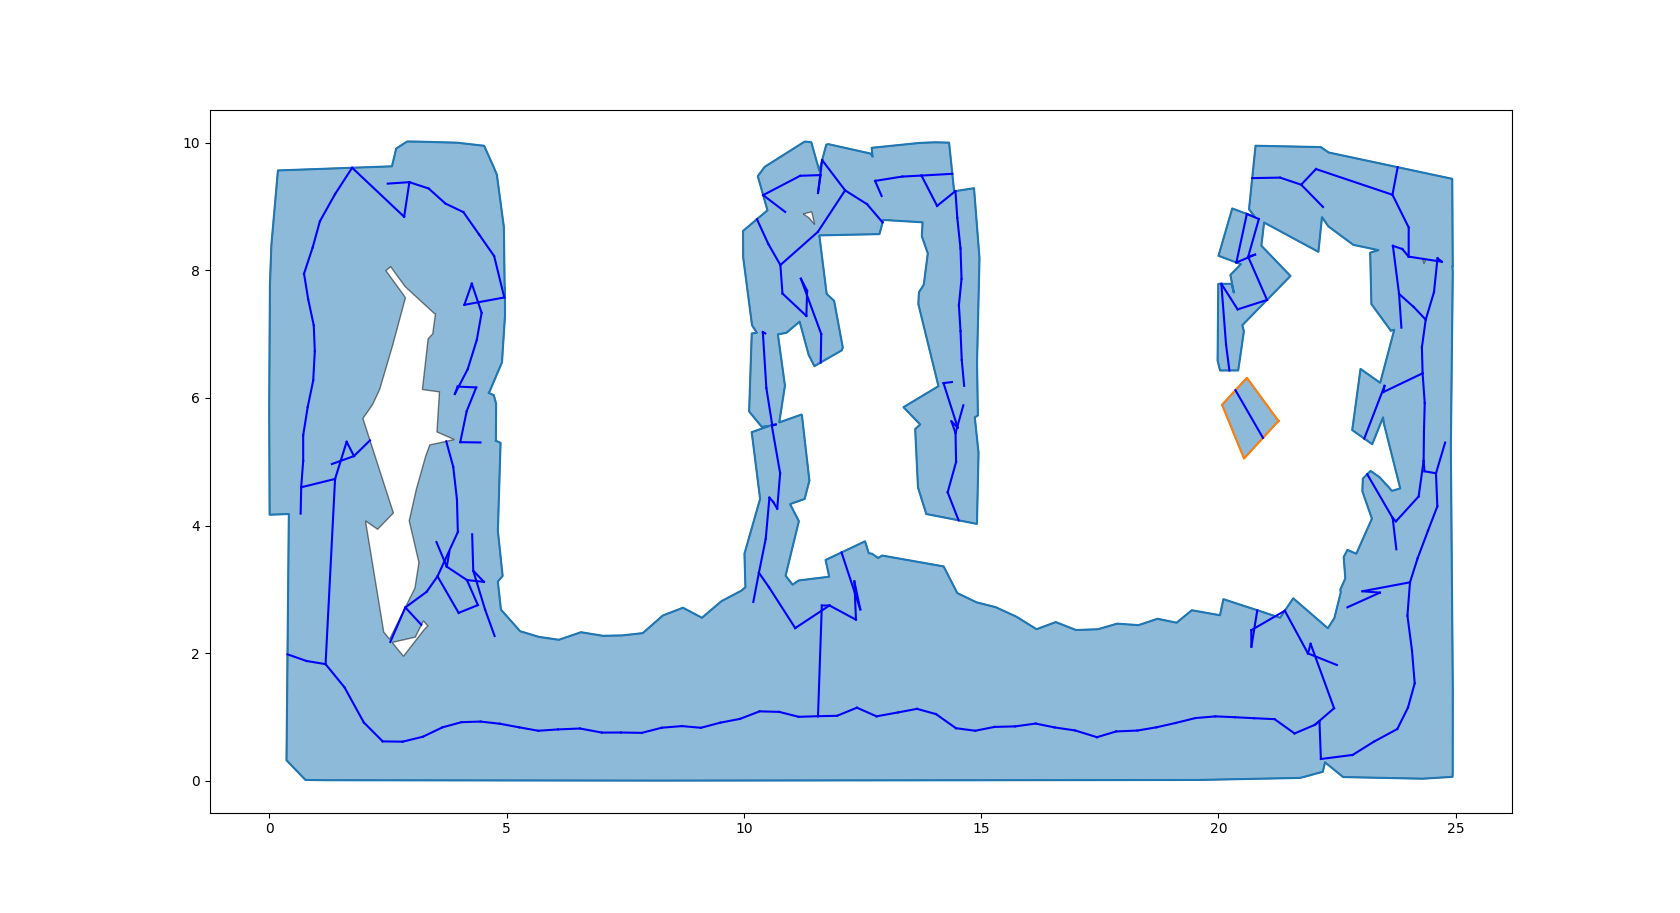
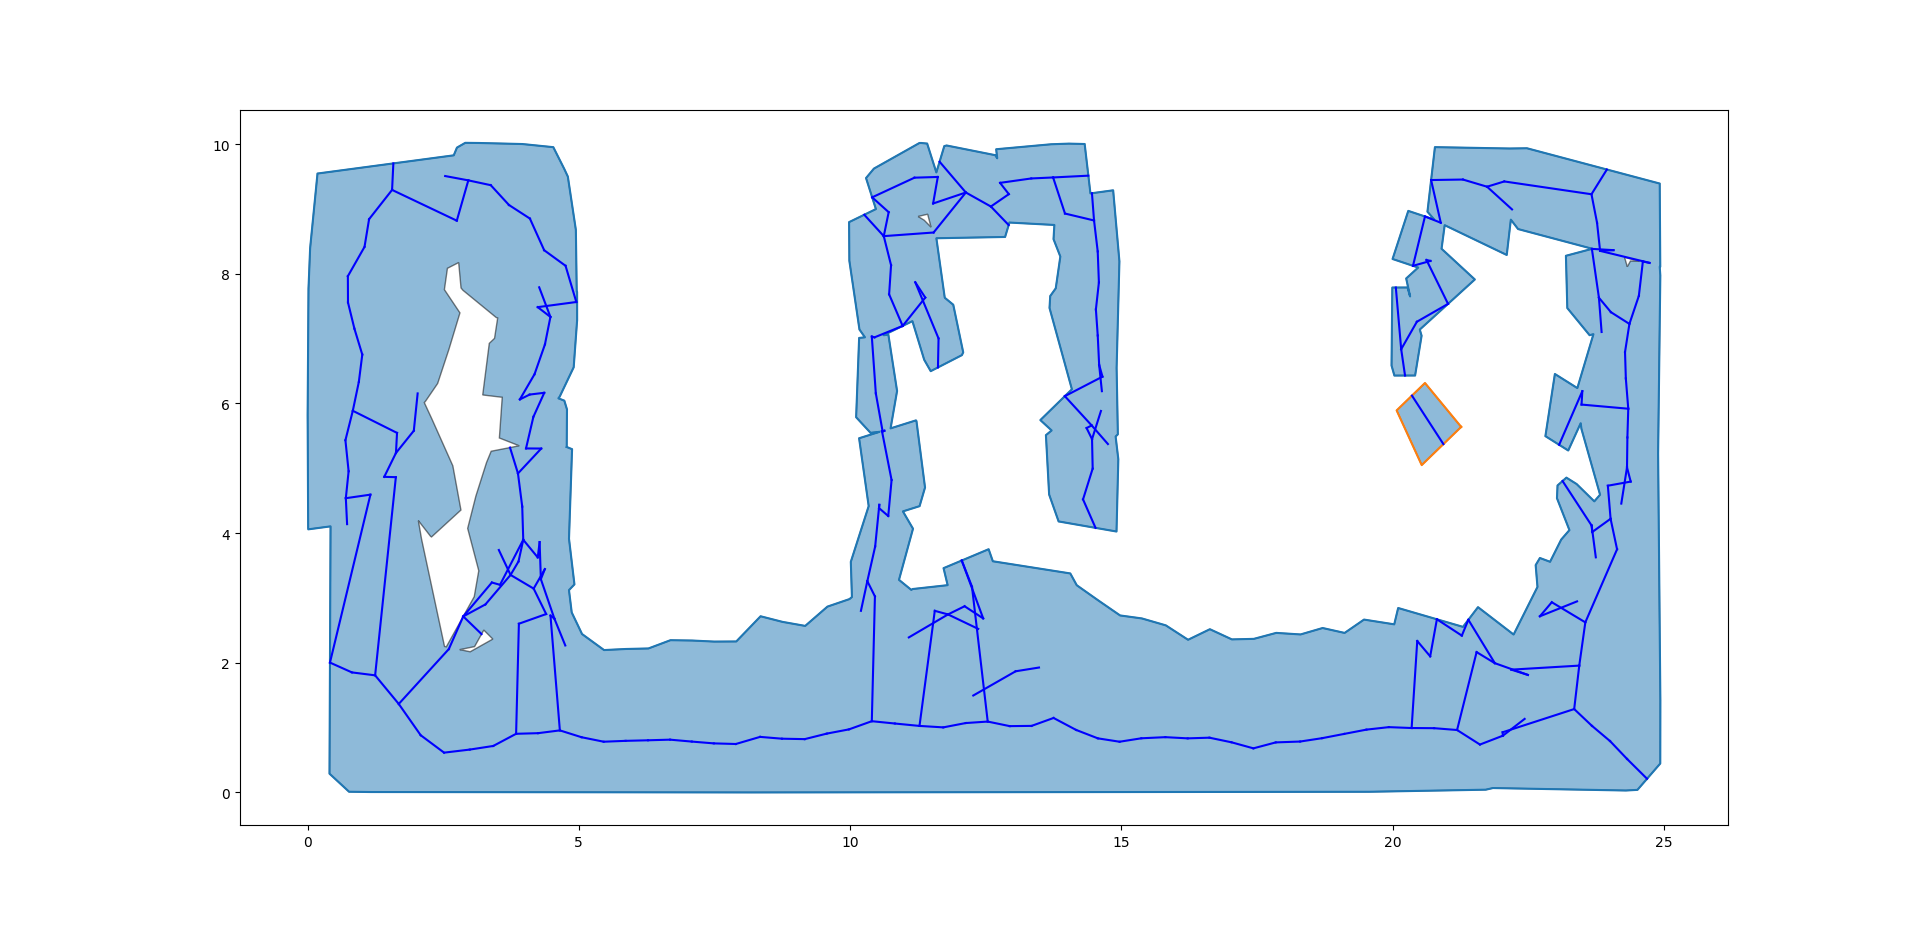
fix to map creation. paste geojson file content to http://geojson.io/ to see the map!

diff --git a/ClusterProcessor.py b/ClusterProcessor.py
@@ -4,7 +4,7 @@ Created on Thu Apr 27 00:38:50 2017
 
 @author: Eyal
 """
-from clyent import color
+
 from descartes import PolygonPatch
 from matplotlib import pyplot as plt
 import numpy as np
@@ -34,7 +34,8 @@ class ClusterProcessor:
         self.MinLns = MinLns
         self.rotationalProjector = RotationalProjector()
 
-    def plotMap(self, axs, polygonsAndReprTrajs):
+
+    def plot_clusters_and_reprs(self, axs, polygonsAndReprTrajs):
         """ input is a zip of <polygon, traj> """
 
         polygonsAndReprTrajs = list(polygonsAndReprTrajs)
@@ -92,7 +93,12 @@ class ClusterProcessor:
         return zip(polygons, trajs)
 
     def make_map_from_zip_polygons_trajs(self, polys_repr_trajs):
-        """ input is a zip of <polygon, traj> """
+        """
+        makes a zip of polys and reprs into a tuple of
+        (map polygon, underlying routing graph)
+        :param polys_repr_trajs: a zip of polys and reprs
+        :return: (map polygon, underlying routing graph)
+        """
 
         map_poly = MultiPolygon()
         polys_repr_trajs = list(polys_repr_trajs)
@@ -101,49 +107,56 @@ class ClusterProcessor:
         polys, trajs = zip(*polys_repr_trajs)  # traj is a (xlist, ylist)
 
         grp = Graph()
+        bridges = []
 
-        def dist(x1, y1, x2, y2):
-            return math.sqrt((x2 - x1) ** 2 + (y2 - y1) ** 2)
-
-        # in this loop we pop clusters and attach them to map
-        while len(polys) > 0:
-            # pop
-            poly, traj = polys[0], trajs[0]  # traj is a (xlist, ylist)
-            polys, trajs = polys[1:], trajs[1:]
-
-            xytups = list(zip(*traj))
-            is_intersect = poly.intersects(map_poly)
-            is_contained = map_poly.contains(poly)
-            if is_contained:
-                print("contained special case, moving on for now...")
+        # building bridges inside this loop
+        for poly_traj_tup_a, poly_traj_tup_b in itertools.combinations(polys_repr_trajs, 2):
+            poly_a, poly_b = poly_traj_tup_a[0], poly_traj_tup_b[0]
+            traj_a, traj_b = poly_traj_tup_a[1], poly_traj_tup_b[1]
+            is_intersect = poly_a.intersects(poly_b)
+            is_a_contained = poly_b.contains(poly_a)
+            is_b_contained = poly_a.contains(poly_b)
+            if is_a_contained or is_b_contained:
+                print("special containment case - deal with later")
                 continue
-
             if is_intersect:
-                intersection_of_clusters = poly.intersection(map_poly)
+                intersection_of_clusters = poly_a.intersection(poly_b)
 
-                if type(intersection_of_clusters) is Polygon:  # TODO: should be case partly intersects
-                    # find closest two points
-                    self.add_polygon_to_map(dist, grp, intersection_of_clusters, xytups)
+                if type(intersection_of_clusters) is Polygon:  # Partial intersection
+                    bridge = ClusterProcessor.bridge(traj_a, traj_b, intersection_of_clusters)
+                    bridges.append(bridge)
 
                 elif type(intersection_of_clusters) is MultiPolygon:
-                    print("MultiPolygon intersection!")
                     for polyg in intersection_of_clusters:
-                        self.add_polygon_to_map(dist, grp, polyg, xytups)
+                        bridge = ClusterProcessor.bridge(traj_a, traj_b, polyg)
+                        bridges.append(bridge)
+
                 else:
                     print("the type of the intersection was {}".format(type(intersection_of_clusters)))
 
-            else:  # doesn't intersect
-                # add all nodes of this cluster to the graph
-                grp.add_nodes_from(xytups)
+        # building map:
+        for poly_traj_tup in polys_repr_trajs:
+            poly = poly_traj_tup[0]
+            traj = poly_traj_tup[1]
 
-                # add all edges of cluster to the map
-                for i, tup in enumerate(xytups):
-                    if i == len(xytups) - 1:
-                        break
-                    grp.add_edge(tup, xytups[i + 1])
-
+            # adding poly to map
             map_poly = map_poly.union(poly)
 
+            # adding trajectory to map graph
+            xytups = list(zip(*traj))
+            grp.add_nodes_from(xytups)
+
+            # add all edges of cluster to the map
+            for i, tup in enumerate(xytups):
+                if i == len(xytups) - 1:
+                    break
+                grp.add_edge(tup, xytups[i + 1])
+
+        for a, m, b in bridges:
+            grp.add_node(m)
+            grp.add_edges_from([(a,m), (m,b)])
+
+        # optional plotting:
         fig, axs = plt.subplots()
         for polygon in map_poly:
             x, y = polygon.exterior.xy
@@ -155,29 +168,34 @@ class ClusterProcessor:
             axs.plot(xs, ys, color="b")
         plt.show()
 
-    def add_polygon_to_map(self, dist, grp, intersection_of_clusters, xytups):
-        x, y = intersection_of_clusters.exterior.xy
-        mean_point = sum(x) / len(x), sum(y) / len(y)
-        # find closest point in poly's traj
-        pts_and_distances = [(xytup, dist(*xytup, *mean_point)) for xytup in xytups]
-        min_pt_and_dist = min(pts_and_distances, key=lambda pt: pt[1])
-        # find closest point already in graph
-        pts_and_distances2 = [(xytup, dist(*xytup, *mean_point)) for xytup in grp.nodes()]
-        min_pt_and_dist2 = min(pts_and_distances2, key=lambda pt: pt[1])
-        # add intersection point to map
-        grp.add_node(mean_point)
-        # add all nodes of this cluster to the graph
-        grp.add_nodes_from(xytups)
-        # add all edges of cluster to the map
-        for i, tup in enumerate(xytups):
-            if i == len(xytups) - 1:
-                break
-            grp.add_edge(tup, xytups[i + 1])
+        return map_poly, grp
 
-        # connect middle point to new cluster
-        grp.add_edge(min_pt_and_dist[0], mean_point)
-        # connect existing graph to middle point
-        grp.add_edge(min_pt_and_dist2[0], mean_point)
+    def dist(x1, y1, x2, y2):
+        return math.sqrt((x2 - x1) ** 2 + (y2 - y1) ** 2)
+
+    def bridge(traj_a, traj_b, polyg):
+        """
+        gets two trajectories from two clusters,
+        and returns 3 points of a short bridge between them.
+        :param traj_a: trajectory of cluster a
+        :param traj_b: trajectory of cluster b
+        :param polyg: the intersection of poly_a and poly_b
+        :return: (pta, meanp, ptb)
+        """
+        ptsa = list(zip(*traj_a))
+        ptsb = list(zip(*traj_b))
+
+        x, y = polyg.exterior.xy
+        mean_point = sum(x) / len(x), sum(y) / len(y)
+
+        # find closest point in traj_a
+        pts_and_distances = [(xytup, ClusterProcessor.dist(*xytup, *mean_point)) for xytup in ptsa]
+        min_pt_and_dist_a = min(pts_and_distances, key=lambda pt: pt[1])
+        # find closest point in traj_b
+        pts_and_distances = [(xytup, ClusterProcessor.dist(*xytup, *mean_point)) for xytup in ptsb]
+        min_pt_and_dist_b = min(pts_and_distances, key=lambda pt: pt[1])
+
+        return (min_pt_and_dist_a[0], mean_point, min_pt_and_dist_b[0])
 
     def loadLocalCluster_lsegList(self, localClusterLlineList):
         self.localLLinesList = localClusterLlineList

diff --git a/mapper.py b/mapper.py
@@ -12,7 +12,10 @@ from TraclusClusterer import SegmentsClusterer
 from ClusterProcessor import ClusterProcessor
 import pickle
 from matplotlib import pyplot as plt
-
+import json
+import geojson
+from shapely.geometry import mapping
+import networkx as nx
 
 class IndoorMapper:
     
@@ -99,8 +102,6 @@ class IndoorMapper:
         clustersDict = clusterer.LineSegmentClustering()
         print("{}: Clustering process ended. Got {} clusters.".format(time.time() - start, len(clustersDict.values())))
         
-#        clusterer.plotClusters(axs, clustersDict.values())
-        
         print("{}: Starting Cluster processing...".format(time.time() - start))
         processor = ClusterProcessor(self.MinLns)
         polygonsAndReprTrajs = processor.process(clustersDict.values())
@@ -108,22 +109,70 @@ class IndoorMapper:
         print("{}: Plotting the clusters...".format(time.time() - start))
         axs.set_title("Clustering eps = {} MinLns = {}".format(self.eps, self.MinLns))
         zip_for_map = copy.deepcopy(polygonsAndReprTrajs)
-        processor.plotMap(axs, polygonsAndReprTrajs)
-        processor.make_map_from_zip_polygons_trajs(zip_for_map)
+        processor.plot_clusters_and_reprs(axs, polygonsAndReprTrajs)
+        map_poly, routing_graph = processor.make_map_from_zip_polygons_trajs(zip_for_map)
 
-       # temp operation...
-#        clusterer.plotClusters(axs, list(clustersDict.values()))
-                
+        geojson_map_string, geo_routing_graph = IndoorMapper.convert_local_to_geo(map_poly, routing_graph, clusterer.projector)
+
+        floor_plan_file_name = "geojson//floor_plan_{}_{}.geojson".format(self.csvName, time.strftime("%d-%m-%Y_%H-%M-%S", time.gmtime()))
+        with open(floor_plan_file_name, "w") as geojson_file:
+            geojson_file.write(geojson_map_string)
+
         print("{}: Plot ended.".format(time.time() - start))
         print("{}: Test ended.".format(time.time() - start))
-    
+
+    def convert_local_to_geo(map_poly, routing_graph, projector):
+        f_local_to_geo = lambda tup: projector.XYToLatLong(*tup)[::-1]
+        f_local_edge_to_geo = lambda two_tups: (f_local_to_geo(two_tups[0]), f_local_to_geo(two_tups[1]))[::-1]
+
+        local_map_mapping = mapping(map_poly)
+        geo_map_mapping = IndoorMapper.geojson_map_coords(f_local_to_geo, local_map_mapping)
+        geojson_map_string = geojson.dumps(geo_map_mapping)
+
+        geo_graph = nx.Graph()
+
+        local_nodes = list(routing_graph.nodes())
+        geo_nodes = map(f_local_to_geo, local_nodes)
+
+        local_edges = list(routing_graph.edges())
+        geo_edges = map(f_local_edge_to_geo, local_edges)
+
+        geo_graph.add_nodes_from(geo_nodes)
+        geo_graph.add_edges_from(geo_edges)
+
+        return geojson_map_string, geo_graph
+
     def testMapperOn(axs, csvName, eps, MinLns):
         mapper = IndoorMapper(csvName, eps, MinLns)
         mapper.run(axs, True)
         return
 
+    def geojson_map_coords(func, obj):
+        """
+        :param func: Function to apply to tuples
+        :type func: function
+        :param obj: A geometry or feature to extract the coordinates from.
+        :type obj: Point, LineString, MultiPoint, MultiLineString, Polygon,
+        MultiPolygon
+        :return: The result of applying the function to each tuple in the
+        array.
+        :rtype: list
+        :raises ValueError: if the provided object is not a Geometry.
+        """
 
-#test('KfarSaba', 60, 3)
-
-#testKfarSaba(60, 4)
-#testKfarSaba(60, 3)
+        if obj['type'] == 'Point':
+            coordinates = tuple(func(obj['coordinates']))
+        elif obj['type'] in ['LineString', 'MultiPoint']:
+            coordinates = [tuple(func(c)) for c in obj['coordinates']]
+        elif obj['type'] in ['MultiLineString', 'Polygon']:
+            coordinates = [[
+                tuple(func(c)) for c in curve]
+                for curve in obj['coordinates']]
+        elif obj['type'] == 'MultiPolygon':
+            coordinates = [[[
+                tuple(func(c)) for c in curve]
+                for curve in part]
+                for part in obj['coordinates']]
+        else:
+            raise ValueError("Invalid geometry object %s" % repr(obj))
+        return {'type': obj['type'], 'coordinates': coordinates}

diff --git a/IMC_tests.py b/IMC_tests.py
@@ -105,9 +105,7 @@ def testTrajectoryClustering(withPickle=False):
             clusterer = pickle.load(pickleFile)
 
     print("{}: Starting clustering process... Graph has {} nodes and {} edges".format(time.time() - start, len(
-        clusterer.directReachabilityGraph.nodes()),
-                                                                                      len(
-                                                                                          clusterer.directReachabilityGraph.edges())))
+        clusterer.directReachabilityGraph.nodes()), len(clusterer.directReachabilityGraph.edges())))
     clusters = clusterer.LineSegmentClustering()
     print("{}: Clustering process ended.".format(time.time() - start))
 

diff --git a/Projector.py b/Projector.py
@@ -46,7 +46,7 @@ class EquirectangularProjector:
         return (x,y)
         
     def XYToLatLong(self, x, y):
-        latRad = (y + self.originXY[1])/ EquirectangularProjector.radius
+        latRad = (y + self.originXY[1])/EquirectangularProjector.radius
         lat = math.degrees(latRad)
         if not (-90 <= lat <= 90):
             raise ValueError("Lat conversions are out of range")
